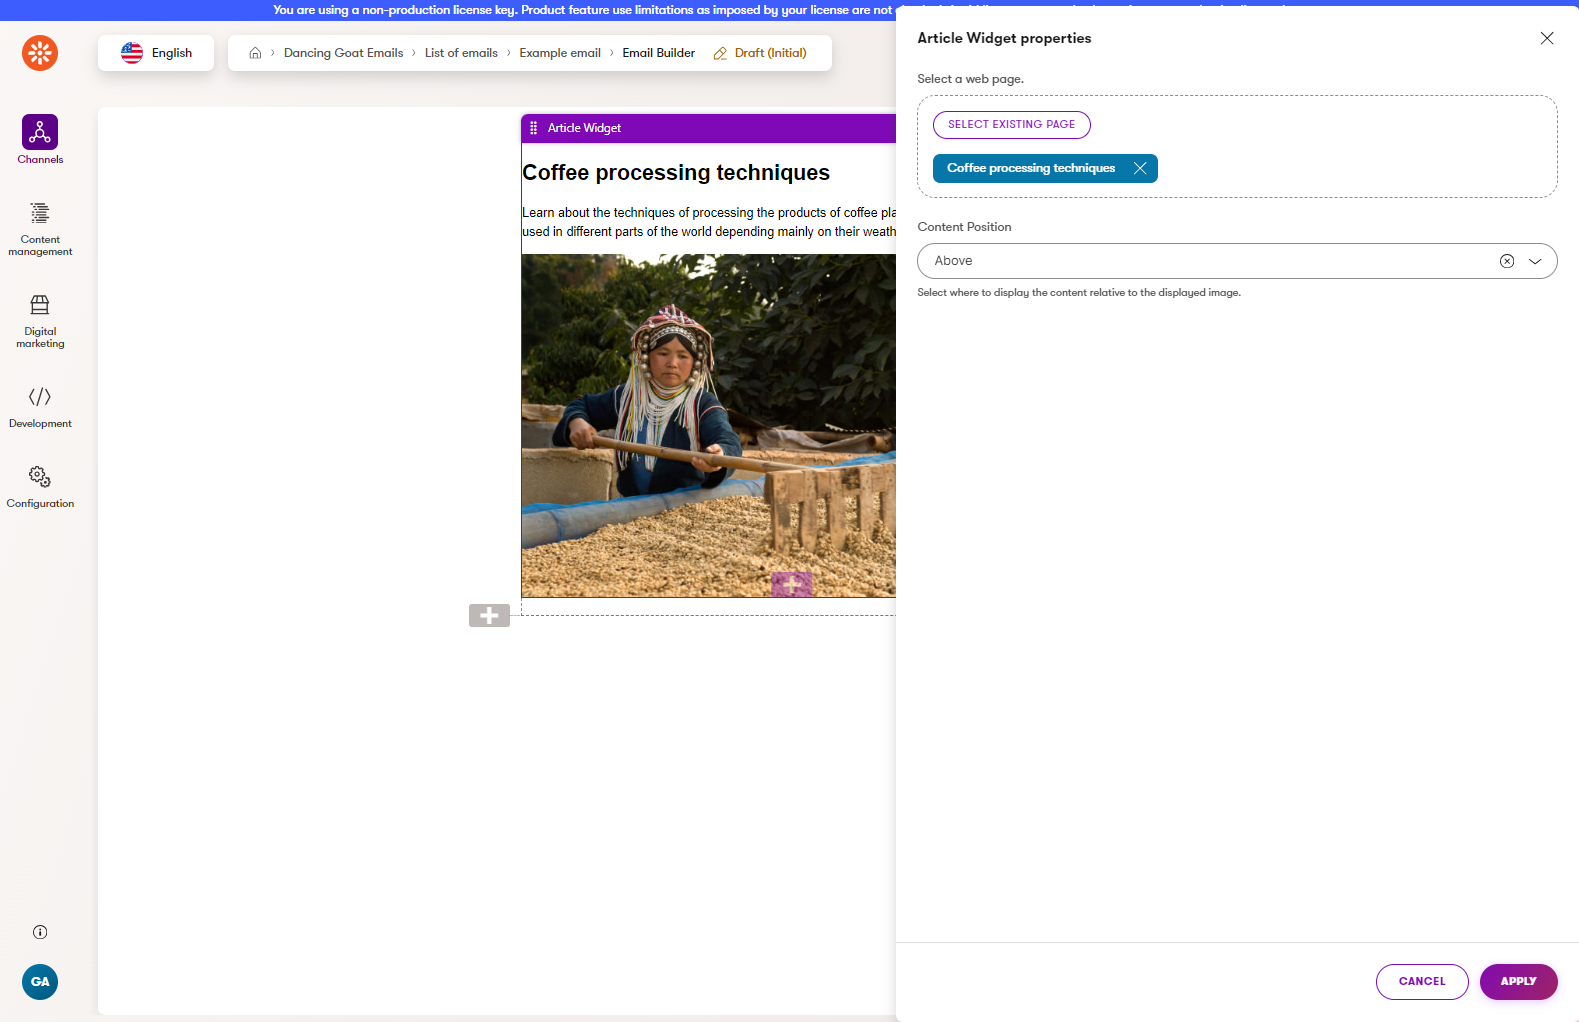
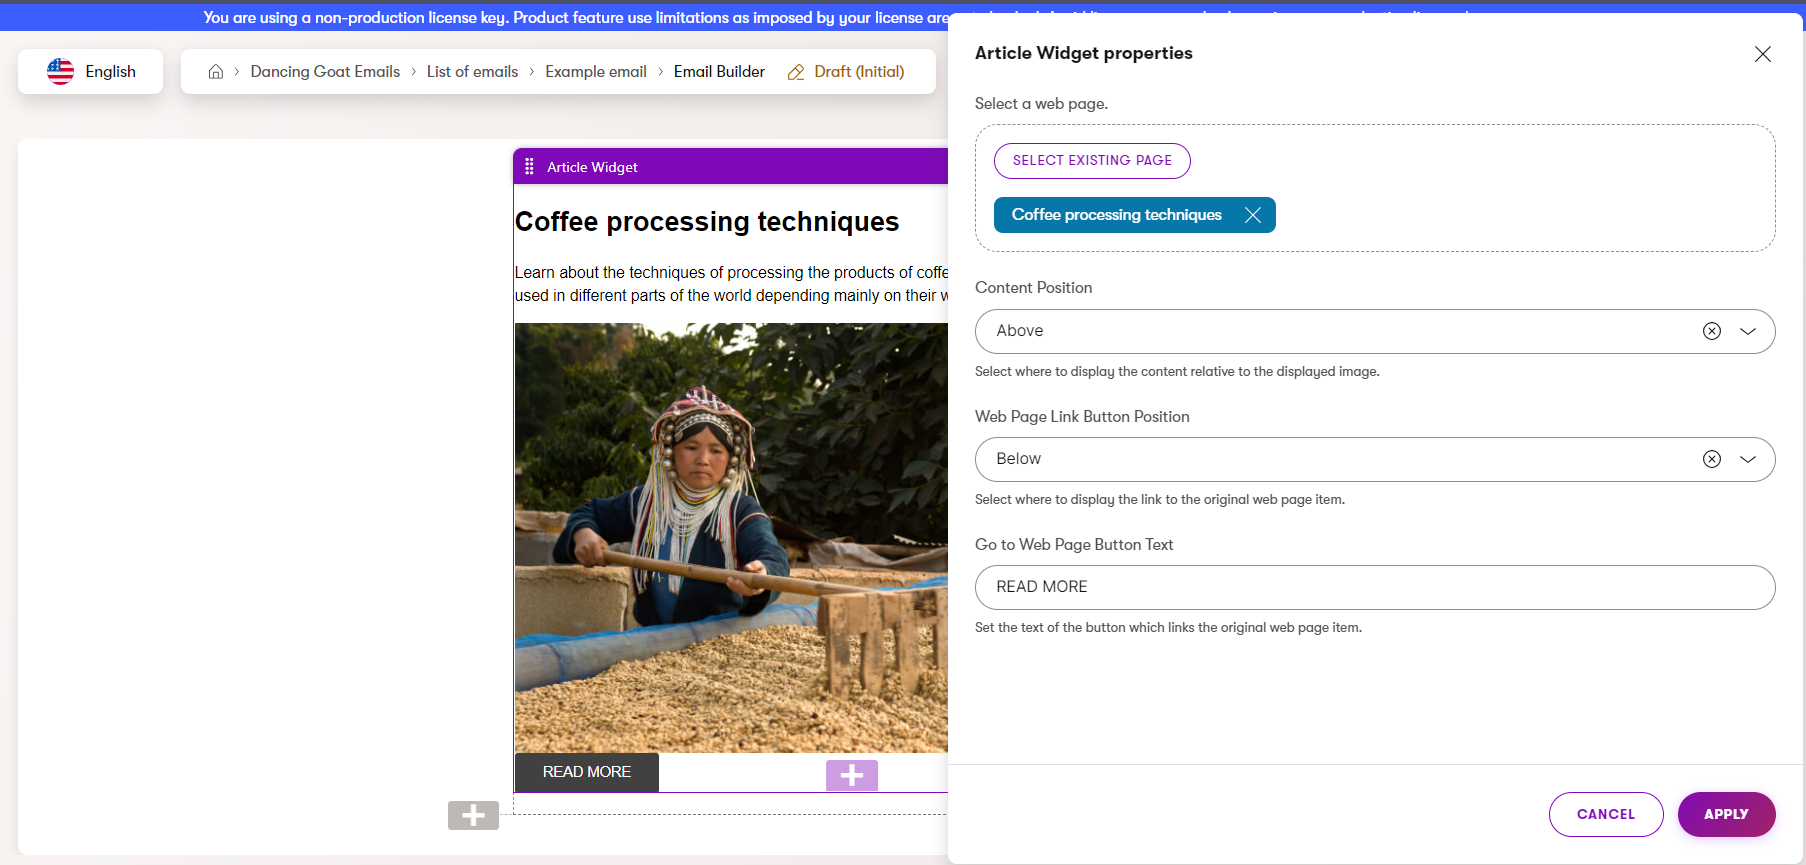
feat(article, product): change api to register widget data retrievers generically in startup, rename mappers to WidgetDataRetriever, update docs, fix grammar

diff --git a/src/Kentico.Xperience.Mjml.StarterKit.Rcl/Widgets/ArticleWidgetProperties.cs b/src/Kentico.Xperience.Mjml.StarterKit.Rcl/Widgets/ArticleWidgetProperties.cs
@@ -12,35 +12,47 @@ namespace Kentico.Xperience.Mjml.StarterKit.Rcl.Widgets;
 public class ArticleWidgetProperties : IEmailWidgetProperties
 {
     /// <summary>
+    /// Specifies the <see cref="WebPageRelatedItem"/> which is used as the content of the article widget.
+    /// </summary>
+    [WebPageSelectorComponent(Label = "Select a web page.",
+        MaximumPages = 1,
+        Order = 1)]
+    public IEnumerable<WebPageRelatedItem> Pages { get; set; } = [];
+
+
+    /// <summary>
     /// Configures the vertical position where the content is displayed relative to the image..
     /// </summary>
     [DropDownComponent(
         Label = "Content Position",
-        Order = 4,
+        Order = 2,
         ExplanationText = "Select where to display the content relative to the displayed image.",
         Options = $"{nameof(ContentPositionOption.Above)};{nameof(ContentPositionOption.Above)}\r\n{nameof(ContentPositionOption.Below)};{nameof(ContentPositionOption.Below)}",
         OptionsValueSeparator = ";")]
     public string ContentPosition { get; set; } = nameof(ContentPositionOption.Above);
 
     /// <summary>
-    /// Specifies the <see cref="WebPageRelatedItem"/> which is used as the content of the article widget.
-    /// </summary>
-    [WebPageSelectorComponent(Label = "Select a web page.", MaximumPages = 1)]
-    public IEnumerable<WebPageRelatedItem> Pages { get; set; } = [];
-
-    /// <summary>
     /// Web page item url position.
     /// </summary>
     [DropDownComponent(
-        Label = "Web Page Item Url Position",
-        Order = 4,
-        ExplanationText = "Select where to display the link to the web page item.",
+        Label = "Web Page Link Button Position",
+        Order = 3,
+        ExplanationText = "Select where to display the link to the original web page item.",
         Options = $"{nameof(WebPageItemUrlPositionType.Above)};{nameof(WebPageItemUrlPositionType.Above)}" +
         $"\r\n{nameof(WebPageItemUrlPositionType.Below)};{nameof(WebPageItemUrlPositionType.Below)}" +
         $"\r\n{nameof(WebPageItemUrlPositionType.Title)};{nameof(WebPageItemUrlPositionType.Title)}" +
         $"\r\n{nameof(WebPageItemUrlPositionType.NotDisplayed)};{nameof(WebPageItemUrlPositionType.NotDisplayed)}",
         OptionsValueSeparator = ";")]
     public string WebPageItemUrlPosition { get; set; } = nameof(WebPageItemUrlPositionType.Below);
+
+    /// <summary>
+    /// Text of the button which links the original web page item.
+    /// </summary>
+    [TextInputComponent(
+        Label = "Go to Web Page Button Text",
+        Order = 4,
+        ExplanationText = "Set the text of the button which links the original web page item.")]
+    public string ReadMoreButtonText { get; set; } = "READ MORE";
 }
 
 /// <summary>

diff --git a/src/Kentico.Xperience.Mjml.StarterKit.Rcl/MjmlStarterKitStartupExtensions.cs b/src/Kentico.Xperience.Mjml.StarterKit.Rcl/MjmlStarterKitStartupExtensions.cs
@@ -40,23 +40,15 @@ public static class MjmlStarterKitStartupExtensions
 }
 
 /// <summary>
-/// The mjml starter kit builder used to configure the <see cref="IEmailTemplateMapper{TWidgetModel}"/>s.
+/// The mjml starter kit builder used to configure the <see cref="WidgetDataRetriever{TWidgetModel}"/>s.
 /// </summary>
 public interface IMjmlStarterKitBuilder
 {
     /// <summary>
-    /// Registers the given <typeparamref name="TMapper"/> as a scoped service.
+    /// Registers the given <typeparamref name="TWidgetDataRetriever"/> for given <typeparamref name="TWidgetModel"/> as a scoped service.
     /// </summary>
-    /// <typeparam name="TMapper">The custom type of <see cref="IProductEmailTemplateMapper"/>.</typeparam>
     /// <returns>Returns this instance of <see cref="IMjmlStarterKitBuilder"/>, allowing for further configuration in a fluent manner.</returns>
-    IMjmlStarterKitBuilder RegisterProductMapper<TMapper>() where TMapper : class, IProductEmailTemplateMapper;
-
-    /// <summary>
-    /// Registers the given <typeparamref name="TMapper"/> as a scoped service.
-    /// </summary>
-    /// <typeparam name="TMapper">The custom type of <see cref="IArticleEmailTemplateMapper"/>.</typeparam>
-    /// <returns>Returns this instance of <see cref="IMjmlStarterKitBuilder"/>, allowing for further configuration in a fluent manner.</returns>
-    IMjmlStarterKitBuilder RegisterArticleMapper<TMapper>() where TMapper : class, IArticleEmailTemplateMapper;
+    IMjmlStarterKitBuilder RegisterWidgetDataRetriever<TWidgetDataRetriever, TWidgetModel>() where TWidgetDataRetriever : class, WidgetDataRetriever<TWidgetModel>;
 }
 
 
@@ -66,16 +58,9 @@ internal class MjmlStarterKitBuilder : IMjmlStarterKitBuilder
     public MjmlStarterKitBuilder(IServiceCollection serviceCollection)
     => this.serviceCollection = serviceCollection;
 
-    public IMjmlStarterKitBuilder RegisterProductMapper<TMapper>() where TMapper : class, IProductEmailTemplateMapper
+    public IMjmlStarterKitBuilder RegisterWidgetDataRetriever<TMapper, TWidgetModel>() where TMapper : class, WidgetDataRetriever<TWidgetModel>
     {
-        serviceCollection.AddScoped<IProductEmailTemplateMapper, TMapper>();
-
-        return this;
-    }
-
-    public IMjmlStarterKitBuilder RegisterArticleMapper<TMapper>() where TMapper : class, IArticleEmailTemplateMapper
-    {
-        serviceCollection.AddScoped<IArticleEmailTemplateMapper, TMapper>();
+        serviceCollection.AddScoped<WidgetDataRetriever<TWidgetModel>, TMapper>();
 
         return this;
     }

diff --git a/src/Kentico.Xperience.Mjml.StarterKit.Rcl/Widgets/ProductWidgetProperties.cs b/src/Kentico.Xperience.Mjml.StarterKit.Rcl/Widgets/ProductWidgetProperties.cs
@@ -21,13 +21,22 @@ public class ProductWidgetProperties : IEmailWidgetProperties
     /// Web page item url position.
     /// </summary>
     [DropDownComponent(
-        Label = "Web Page Item Url Position",
-        Order = 4,
-        ExplanationText = "Select where to display the link to the web page item.",
+        Label = "Web Page Link Button Position",
+        Order = 2,
+        ExplanationText = "Select where to display the link to the original web page item.",
         Options = $"{nameof(WebPageItemUrlPositionType.Above)};{nameof(WebPageItemUrlPositionType.Above)}" +
         $"\r\n{nameof(WebPageItemUrlPositionType.Below)};{nameof(WebPageItemUrlPositionType.Below)}" +
         $"\r\n{nameof(WebPageItemUrlPositionType.Title)};{nameof(WebPageItemUrlPositionType.Title)}" +
         $"\r\n{nameof(WebPageItemUrlPositionType.NotDisplayed)};{nameof(WebPageItemUrlPositionType.NotDisplayed)}",
         OptionsValueSeparator = ";")]
     public string WebPageItemUrlPosition { get; set; } = nameof(WebPageItemUrlPositionType.Below);
+
+    /// <summary>
+    /// Text of the button which links the original web page item.
+    /// </summary>
+    [TextInputComponent(
+        Label = "Go to Web Page Button Text",
+        Order = 3,
+        ExplanationText = "Set the text of the button which links the original web page item.")]
+    public string ReadMoreButtonText { get; set; } = "READ MORE";
 }

diff --git a/examples/DancingGoat/EmailTemplates/ExampleProductWidgetEmailDataRetriever.cs b/examples/DancingGoat/EmailTemplates/ExampleProductWidgetEmailDataRetriever.cs
@@ -11,7 +11,7 @@ using Kentico.Xperience.Mjml.StarterKit.Rcl.Widgets;
 #pragma warning disable KXE0001
 [assembly: RegisterEmailTemplate(
     identifier: ProductEmailTemplate.IDENTIFIER,
-    name: "Email builder Product template",
+    name: "Mjml starter kit template",
     componentType: typeof(ProductEmailTemplate),
     ContentTypeNames = ["DancingGoat.Email"],
     Description = "Product template.",
@@ -21,14 +21,14 @@ using Kentico.Xperience.Mjml.StarterKit.Rcl.Widgets;
 
 namespace DancingGoat.EmailTemplates;
 
-public class ExampleProductEmailTemplateMapper : IProductEmailTemplateMapper
+public class ExampleProductWidgetEmailDataRetriever : WidgetDataRetriever<ProductWidgetModel>
 {
     private readonly IContentQueryExecutor contentQueryExecutor;
     private readonly IWebPageQueryResultMapper webPageMapper;
 
     public string WebsiteChannelName { get; } = "DancingGoatPages";
 
-    public ExampleProductEmailTemplateMapper(IContentQueryExecutor contentQueryExecutor,
+    public ExampleProductWidgetEmailDataRetriever(IContentQueryExecutor contentQueryExecutor,
         IWebPageQueryResultMapper webPageMapper)
     {
         this.contentQueryExecutor = contentQueryExecutor;

diff --git a/src/Kentico.Xperience.Mjml.StarterKit.Rcl/Widgets/ButtonWIdgetProperties.cs b/src/Kentico.Xperience.Mjml.StarterKit.Rcl/Widgets/ButtonWIdgetProperties.cs
@@ -38,7 +38,7 @@ public class ButtonWidgetProperties : IEmailWidgetProperties
     public string ButtonType { get; set; } = nameof(Widgets.ButtonType.Button);
 
     /// <summary>
-    /// The horizontal alignment of the button. <see cref="ButtonHorizontalAligment"/>
+    /// The horizontal alignment of the button. <see cref="ButtonHorizontalAlignment"/>
     /// </summary>
     [DropDownComponent(
         Label = "Alignment",
@@ -46,7 +46,7 @@ public class ButtonWidgetProperties : IEmailWidgetProperties
         ExplanationText = "Select button alignment",
         Options = $"{nameof(ButtonAlignment.Left)};{nameof(ButtonAlignment.Left)}\r\n{nameof(ButtonAlignment.Centre)};{nameof(ButtonAlignment.Centre)}\r\n{nameof(ButtonAlignment.Right)};{nameof(ButtonAlignment.Right)}",
         OptionsValueSeparator = ";")]
-    public string ButtonHorizontalAligment { get; set; } = nameof(ButtonAlignment.Left);
+    public string ButtonHorizontalAlignment { get; set; } = nameof(ButtonAlignment.Left);
 }
 
 /// <summary>

diff --git a/src/Kentico.Xperience.Mjml.StarterKit.Rcl/Widgets/ProductWidget.razor.cs b/src/Kentico.Xperience.Mjml.StarterKit.Rcl/Widgets/ProductWidget.razor.cs
@@ -1,5 +1,4 @@
-using CMS.ContentEngine;
-using CMS.Websites;
+using CMS.Websites;
 
 using Kentico.EmailBuilder.Web.Mvc;
 using Kentico.Xperience.Mjml.StarterKit.Rcl.Mapping;
@@ -27,7 +26,7 @@ public partial class ProductWidget : ComponentBase
     public const string IDENTIFIER = $"Kentico.Xperience.Mjml.StarterKit.{nameof(ProductWidget)}";
 
     [Inject]
-    private IProductEmailTemplateMapper ProductEmailTemplateMapper { get; set; } = default!;
+    private WidgetDataRetriever<ProductWidgetModel> ProductWidgetEmailMapper { get; set; } = default!;
 
     [Inject]
     private IWebPageUrlRetriever WebPageUrlRetriever { get; set; } = default!;
@@ -64,6 +63,6 @@ public partial class ProductWidget : ComponentBase
             WebPageItemUrl = webPageItemUrl.AbsoluteUrl;
         }
 
-        Model = await ProductEmailTemplateMapper.MapProperties(webPageItem.WebPageGuid, languageName);
+        Model = await ProductWidgetEmailMapper.MapProperties(webPageItem.WebPageGuid, languageName);
     }
 }

diff --git a/examples/DancingGoat/Program.cs b/examples/DancingGoat/Program.cs
@@ -22,6 +22,7 @@ using Kentico.Xperience.Mjml.StarterKit.Rcl;
 using Kentico.Xperience.Mjml;
 using Kentico.Xperience.Mjml.StarterKit.Rcl.Sections;
 using DancingGoat.EmailTemplates;
+using Kentico.Xperience.Mjml.StarterKit.Rcl.Widgets;
 
 var builder = WebApplication.CreateBuilder(args);
 
@@ -70,8 +71,8 @@ builder.Services.AddSingleton<IEmailActivityTrackingEvaluator, EmailActivityTrac
 
 builder.Services.AddKenticoMjmlStarterKit(builder.Configuration, configure =>
 {
-    configure.RegisterArticleMapper<ExampleArticleEmailTemplateMapper>();
-    configure.RegisterProductMapper<ExampleProductEmailTemplateMapper>();
+    configure.RegisterWidgetDataRetriever<ExampleArticleWidgetEmailDataRetriever, ArticleWidgetModel>();
+    configure.RegisterWidgetDataRetriever<ExampleProductWidgetEmailDataRetriever, ProductWidgetModel>();
 });
 builder.Services.AddMjmlForEmails();
 

diff --git a/src/Kentico.Xperience.Mjml.StarterKit.Rcl/Widgets/ArticleWidget.razor.cs b/src/Kentico.Xperience.Mjml.StarterKit.Rcl/Widgets/ArticleWidget.razor.cs
@@ -26,7 +26,7 @@ public partial class ArticleWidget : ComponentBase
     public const string IDENTIFIER = $"Kentico.Xperience.Mjml.StarterKit.{nameof(ArticleWidget)}";
 
     [Inject]
-    private IArticleEmailTemplateMapper ArticleEmailTemplateMapper { get; set; } = default!;
+    private WidgetDataRetriever<ArticleWidgetModel> ArticleWidgetEmailMapper { get; set; } = default!;
 
     [Inject]
     private IWebPageUrlRetriever WebPageUrlRetriever { get; set; } = default!;
@@ -63,6 +63,6 @@ public partial class ArticleWidget : ComponentBase
             WebPageItemUrl = webPageItemUrl.AbsoluteUrl;
         }
 
-        Model = await ArticleEmailTemplateMapper.MapProperties(webPageItemGuid.WebPageGuid, languageName);
+        Model = await ArticleWidgetEmailMapper.MapProperties(webPageItemGuid.WebPageGuid, languageName);
     }
 }

diff --git a/examples/DancingGoat/EmailTemplates/ExampleArticleWidgetEmailDataRetriever.cs b/examples/DancingGoat/EmailTemplates/ExampleArticleWidgetEmailDataRetriever.cs
@@ -8,14 +8,14 @@ using Kentico.Xperience.Mjml.StarterKit.Rcl.Widgets;
 
 namespace DancingGoat.EmailTemplates;
 
-public class ExampleArticleEmailTemplateMapper : IArticleEmailTemplateMapper
+public class ExampleArticleWidgetEmailDataRetriever : WidgetDataRetriever<ArticleWidgetModel>
 {
     private readonly IContentQueryExecutor contentQueryExecutor;
     private readonly IWebPageQueryResultMapper webPageMapper;
 
     public string WebsiteChannelName { get; } = "DancingGoatPages";
 
-    public ExampleArticleEmailTemplateMapper(IContentQueryExecutor contentQueryExecutor,
+    public ExampleArticleWidgetEmailDataRetriever(IContentQueryExecutor contentQueryExecutor,
         IWebPageQueryResultMapper webPageMapper)
     {
         this.contentQueryExecutor = contentQueryExecutor;

diff --git a/src/Kentico.Xperience.Mjml.StarterKit.Rcl/Mapping/WidgetDataRetriever.cs b/src/Kentico.Xperience.Mjml.StarterKit.Rcl/Mapping/WidgetDataRetriever.cs
@@ -3,7 +3,7 @@
 /// <summary>
 /// Mapper which defines methods required to map selected web page items to email builder widget models.
 /// </summary>
-public interface IEmailTemplateMapper<TWidgetModel>
+public interface WidgetDataRetriever<TWidgetModel>
 {
     /// <summary>
     /// Based on a web page item guid maps a web page item to a <typeparamref name="TWidgetModel"/> model.

diff --git a/docs/Usage-Guide.md b/docs/Usage-Guide.md
@@ -2,9 +2,9 @@
 
 ## Implement custom Web Page Item mappers.
 
-Define a custom `ArticleEmailTemplateMapper`, which maps Web Page Items selected in the `Article` widget to display content from a page within the widget's elements.
+Define a custom `WidgetDataRetriever<ArticleWidgetModel>`, which maps Web Page Items selected in the `Article` widget to display content from a page within the widget's elements.
 
-Your custom implementation of `ArticleEmailTemplateMapper` can use dependency injection to define services and configuration required to retrieve and map the content to the `ArticleWidgetModel`.
+Your custom implementation of `WidgetDataRetriever<ArticleWidgetModel>` can use dependency injection to define services and configuration required to retrieve and map the content to the `ArticleWidgetModel`.
 
 The `ArticleWidgetModel` expects the following attributes to be set:
 
@@ -33,7 +33,7 @@ Implement the `MapProperties` method, which provides the `WebPageItemGuid` from 
 
 
 ```csharp
-public class ExampleArticleEmailTemplateMapper : ArticleEmailTemplateMapper
+public class ExampleArticleWidgetEmailDataRetriever : WidgetDataRetriever<ArticleWidgetModel>
 {
     private readonly IContentQueryExecutor contentQueryExecutor;
     private readonly IWebPageQueryResultMapper webPageMapper;
@@ -89,7 +89,7 @@ public class ExampleArticleEmailTemplateMapper : ArticleEmailTemplateMapper
 
 ![Article widget](/images/xperience-article-widget-configuration.png)
 
-Similarly, implement a custom `ProductEmailTemplateMapper`, which maps `WebPageItemGuid`s to `ProductWidgetModel`s used by `Product` widgets. The `Product` widget is very similar to the `Article` widget, except it does not contain an image.
+Similarly, implement a custom `WidgetDataRetriever<ProductWidgetModel>`, which maps `WebPageItemGuid`s to `ProductWidgetModel`s used by `Product` widgets. The `Product` widget is very similar to the `Article` widget, except it does not contain an image.
 
 ![Product widget](/images/xperience-product-widget-configuration.png)
 
@@ -181,11 +181,21 @@ Some styles must be marked *!important* to override the default styling of the m
 
 ### Widgets
 
-**Product**  
-- (explained above)
-
 **Article**  
-- (explained above)
+In addition to the `WidgetDataRetriever<ArticleWidgetModel>` mapper explained above, this widget allows the user to configure the following parameters:  
+
+- **Select a web page** – The article web page item used to set the content of this widget.  
+- **Content Position** – The vertical positioning of the content relative to the displayed image.  
+- **Web Page Link Button Position** – Choose the vertical positioning of the button relative to the text content of this widget or set the title as a link to the original page.  
+- **Go to Web Page Button Text** – The text displayed on the button that links to the original page.  
+
+**Product**  
+In addition to the `WidgetDataRetriever<ProductWidgetModel>` mapper explained above, this widget allows the user to configure the following parameters:  
+
+- **Select a web page** – The product web page item used to set the content of this widget.  
+- **Web Page Link Button Position** – Choose the vertical positioning of the button relative to the text content of this widget or set the title as a link to the original page.  
+- **Go to Web Page Button Text** – The text displayed on the button that links to the original page.
+
 
 **Button**  
 The Button widget lets the user configure the following parameters:

diff --git a/README.md b/README.md
@@ -40,16 +40,16 @@ dotnet add package Kentico.Xperience.Mjml.StarterKit
 
 1. Perform the necessary steps to enable the [Email Builder](https://docs.kentico.com/developers-and-admins/development/builders/email-builder#enable-the-email-builder-feature) feature in your application.
 
-2. Define custom implementations of `ArticleEmailTemplateMapper` and `ProductEmailTemplateMapper` to customize how Web Page Items are mapped to **Email Builder** widgets.
+2. Define custom implementations of `IEmailWidgetMapper` for `ArticleWidgetModel` and `ProductWidgetModel` to customize how Web Page Items are mapped to **Email Builder** widgets.
 
-3. Add this library to the application services, registering your custom `ArticleEmailTemplateMapper` and `ProductEmailTemplateMapper`.
+3. Add this library to the application services, registering your custom `ExampleArticleWidgetEmailDataRetriever` and `ExampleProductWidgetEmailDataRetriever`.
 
     ```csharp
     // Program.cs
     builder.Services.AddKenticoMjmlStarterKit(builder.Configuration, configure =>
     {
-        configure.RegisterArticleMapper<ExampleArticleEmailTemplateMapper>();
-        configure.RegisterProductMapper<ExampleProductEmailTemplateMapper>();
+        configure.RegisterWidgetDataRetriever<ExampleArticleWidgetEmailDataRetriever, ArticleWidgetModel>();
+        configure.RegisterWidgetDataRetriever<ExampleProductWidgetEmailDataRetriever, ProductWidgetModel>();
     });
     ```
 
@@ -70,7 +70,7 @@ dotnet add package Kentico.Xperience.Mjml.StarterKit
 ```csharp
 [assembly: RegisterEmailTemplate(
     identifier: ProductEmailTemplate.IDENTIFIER,
-    name: "Email builder Product template",
+    name: "Mjml starter kit template",
     componentType: typeof(ProductEmailTemplate),
     ContentTypeNames = ["DancingGoat.Email"],
     Description = "Product template.",
@@ -82,7 +82,7 @@ dotnet add package Kentico.Xperience.Mjml.StarterKit
 - Navigate to an **Email Channel** configuration in your **Xperience by Kentico** administration UI.
 - Create a new email by pressing **NEW EMAIL**.
 - Fill out the email's attributes and specify a content type that you have registered to make the `ProductEmailTemplate` available.
-- Press **CONTINUE** and select the **Email Builder Product Template**.
+- Press **CONTINUE** and select the **Mjml starter kit template**.
 - Fill out the content of your email and press **SAVE**.
 - Go to the **Email Builder** section.
 - Now, you can add the sections and widgets included in this library.
